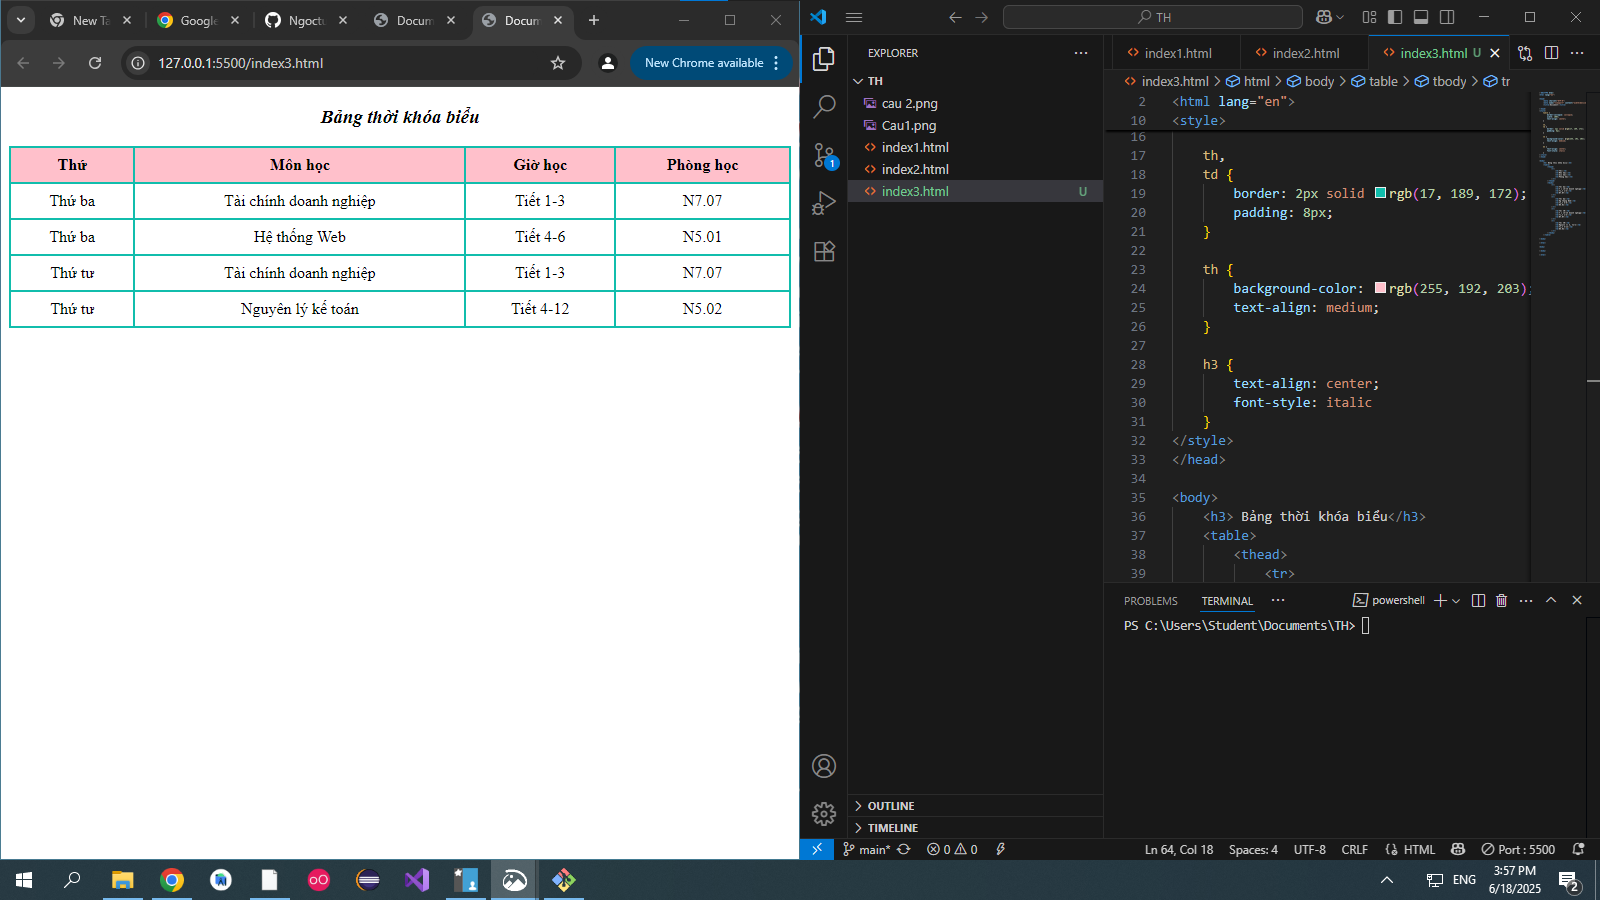
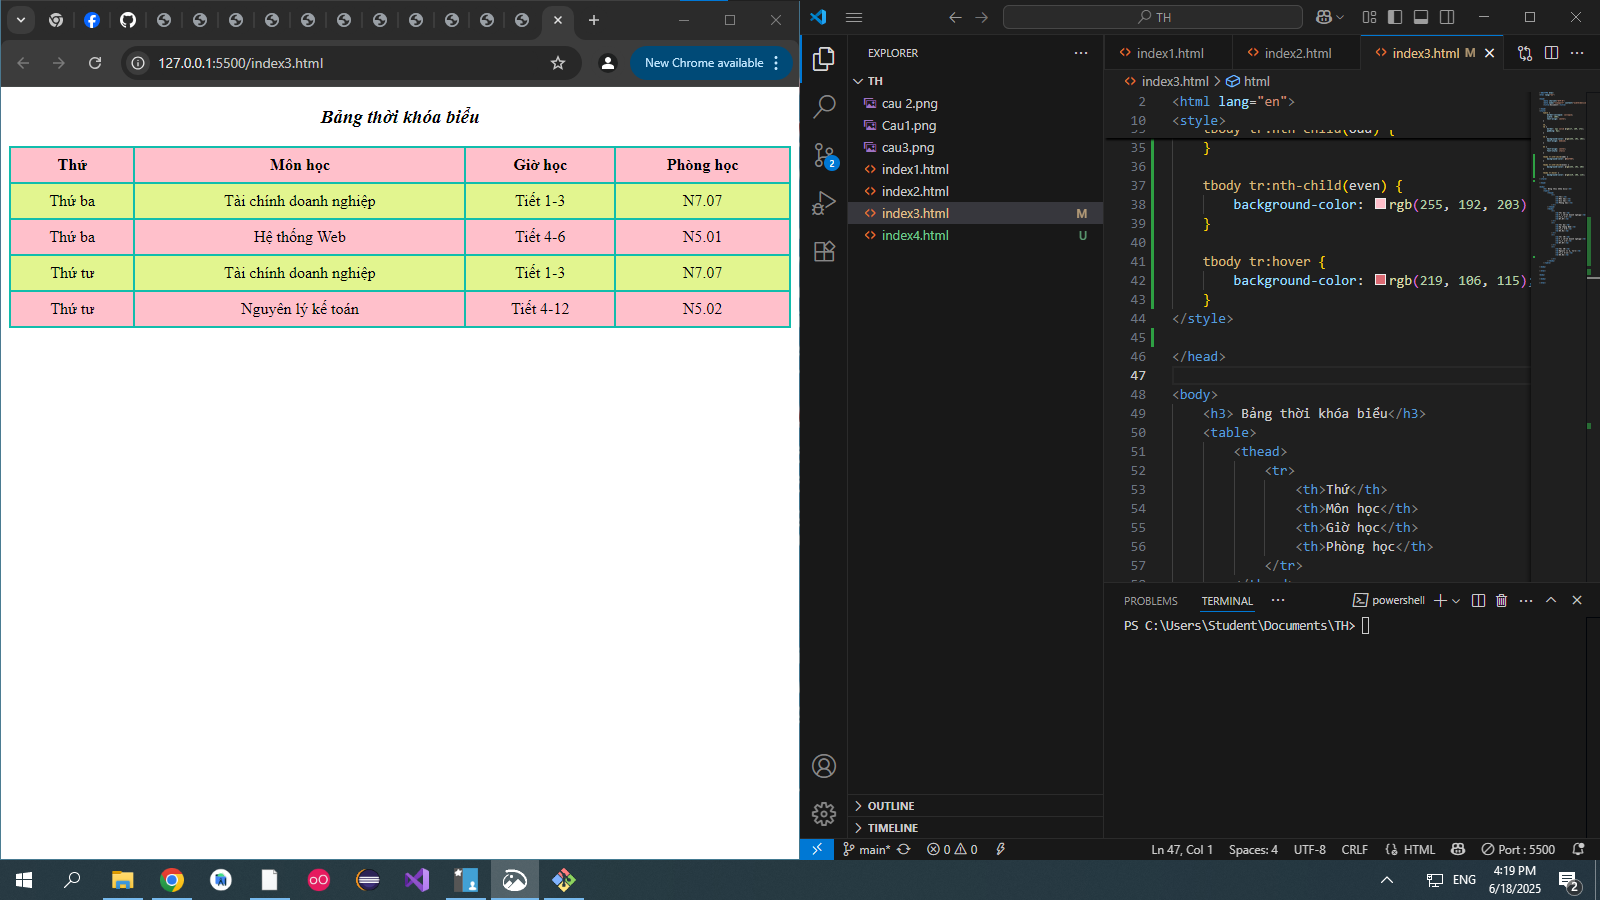
index3.html + TH

diff --git a/index4.html b/index4.html
@@ -1,0 +1,56 @@
+<!DOCTYPE html>
+<html lang="en">
+
+<head>
+    <meta charset="UTF-8">
+    <meta name="viewport" content="width=device-width, initial-scale=1.0">
+    <title>Document</title>
+</head>
+
+<body>
+    <style>
+        body {
+            background-color: aqua;
+        }
+        
+        h3 {
+            text-align: center;
+        }
+        
+        label {
+            margin: 15px;
+        }
+        
+        input {
+            margin-left: 15px;
+        }
+        
+        #submit:hover {
+            font-size: larger;
+            background-color: blue;
+        }
+    </style>
+    </head>
+
+    <body>
+        <h3>Form đăng kí thông tin</h3>
+        <form action="Đăng kí">
+            <label for="Tên"> lâm thị ngọc tuyền </label><br>
+            <input type="text" id="name" name="Tên"><br>
+            <label for="Email">lamthingoctuyen021118@gmail.com</label><br>
+            <input type="email" id="Email"><br>
+            <div style="display: flex; align-items: center;">
+                <label for="gender">nữ</label><br>
+                <input type="radio" name="gender" value="female"><br>
+                <label for="Nữ">Nữ</label>
+                <input type="radio" name="gender" value="male">
+                <label for="Nam">Nam</label><br><br>
+            </div>
+            <input type="submit" id="submit" name="Gửi">
+        </form>
+    </body>
+
+</html>
+</body>
+
+</html>

diff --git a/index3.html b/index3.html
@@ -29,7 +29,20 @@
         text-align: center;
         font-style: italic
     }
+    
+    tbody tr:nth-child(odd) {
+        background-color: #e2f58f;
+    }
+    
+    tbody tr:nth-child(even) {
+        background-color: rgb(255, 192, 203)
+    }
+    
+    tbody tr:hover {
+        background-color: rgb(219, 106, 115);
+    }
 </style>
+
 </head>
 
 <body>
@@ -67,6 +80,7 @@
                 <td>Nguyên lý kế toán</td>
                 <td>Tiết 4-12</td>
                 <td>N5.02</td>
+
             </tr>
         </tbody>
     </table>
